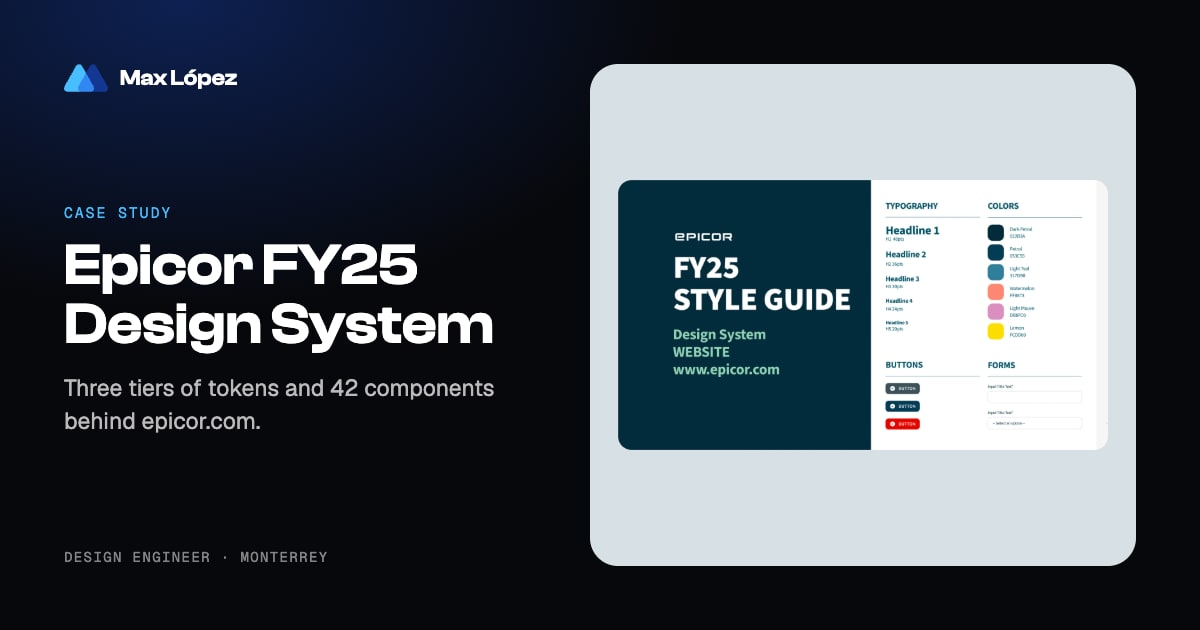
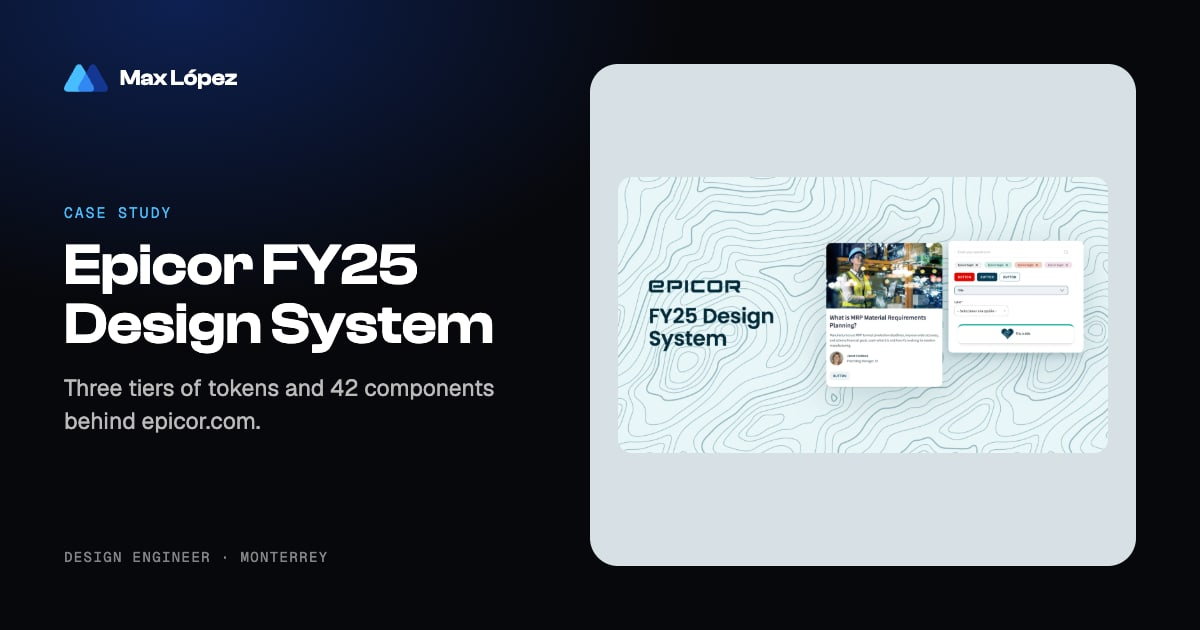
FY25: new cover from real components on the topographic background
Case cover, home story beat and OG image.

Changed region(s): [[0.4933, 0.2714, 0.925, 0.7238]]

diff --git a/app/data/projects.ts b/app/data/projects.ts
@@ -14,7 +14,7 @@ export const projects: Project[] = [
         {
           label: "What it is",
           body: "The design system behind epicor.com: tokens with light and dark modes, and 42 components in Figma.",
-          visual: { type: "image", src: "/home/fy25/cover.webp", alt: "The Epicor FY25 style guide cover" },
+          visual: { type: "image", src: "/home/fy25/cover.webp", alt: "Real FY25 components on a topographic background" },
         },
         {
           label: "The problem",
